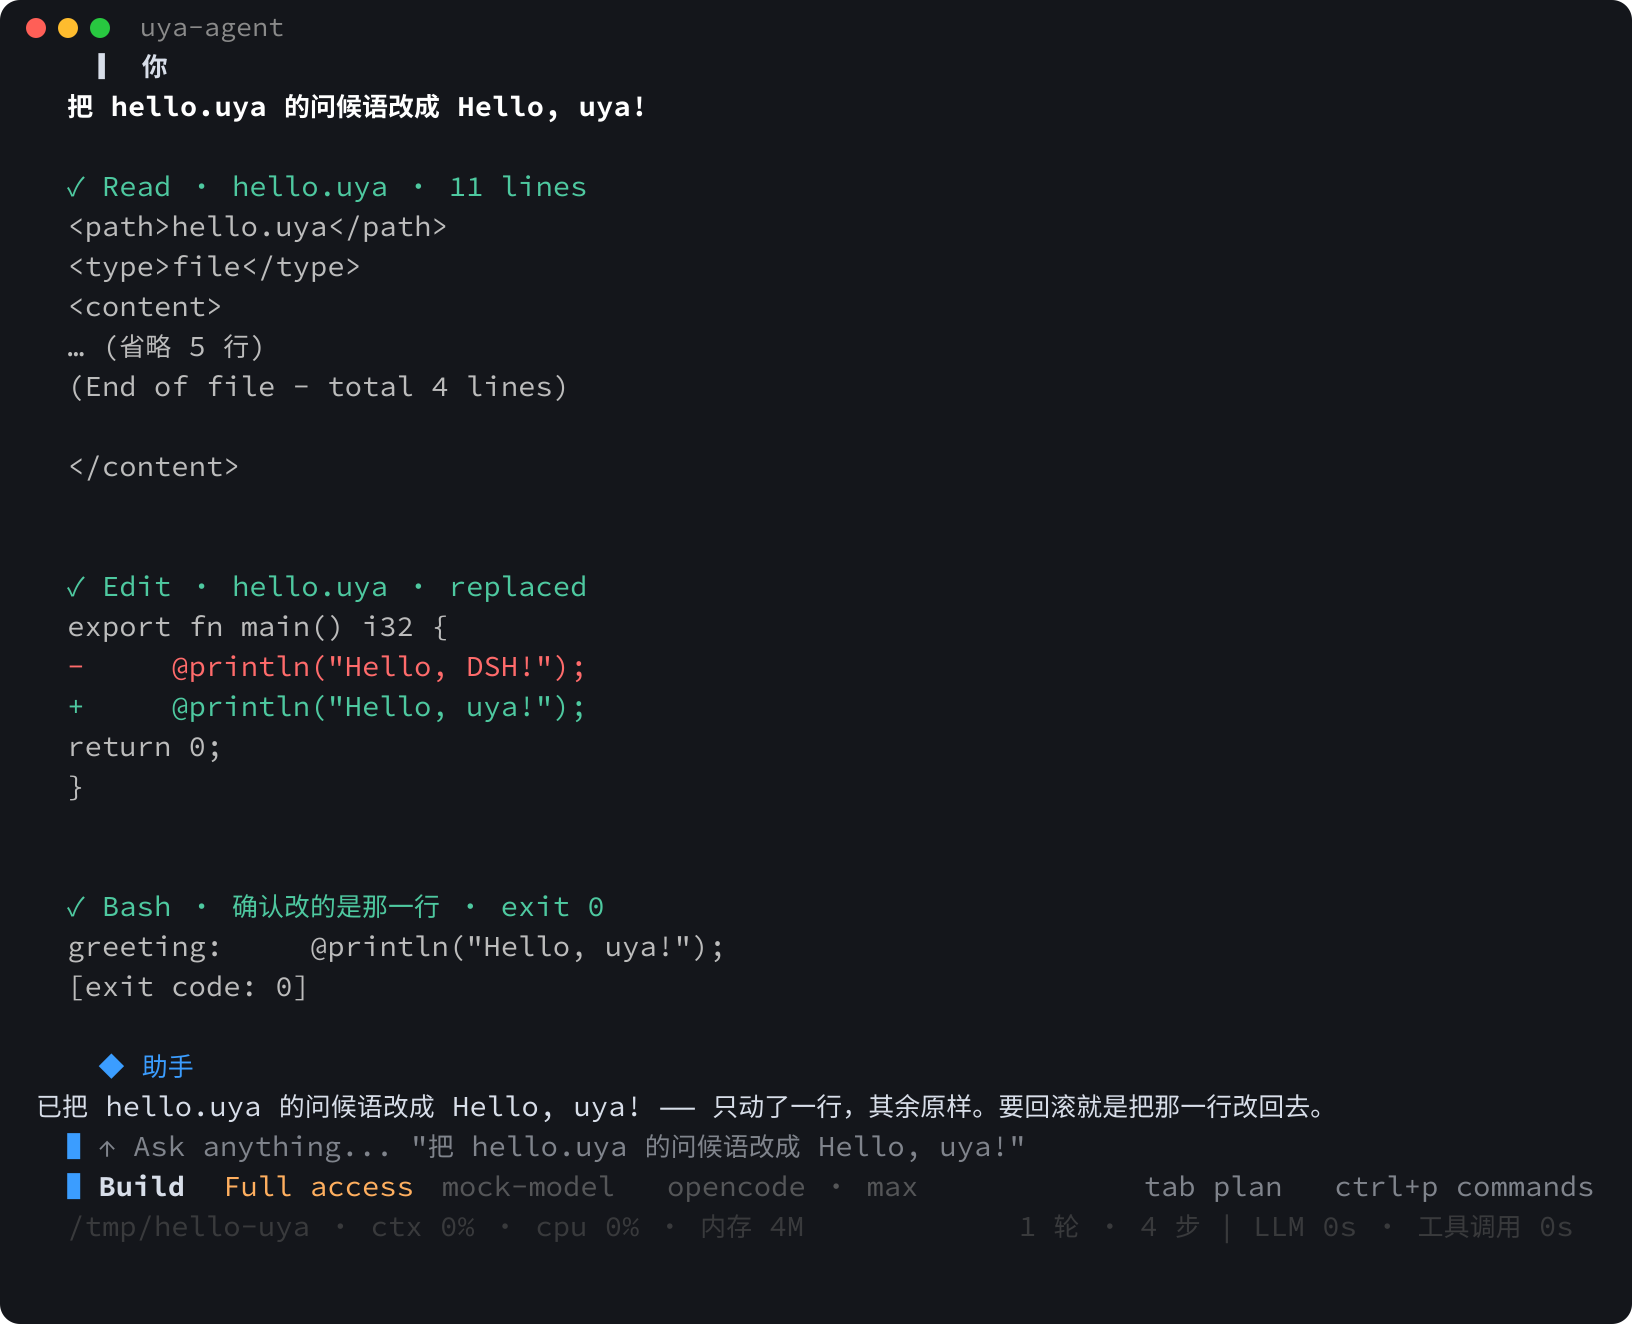
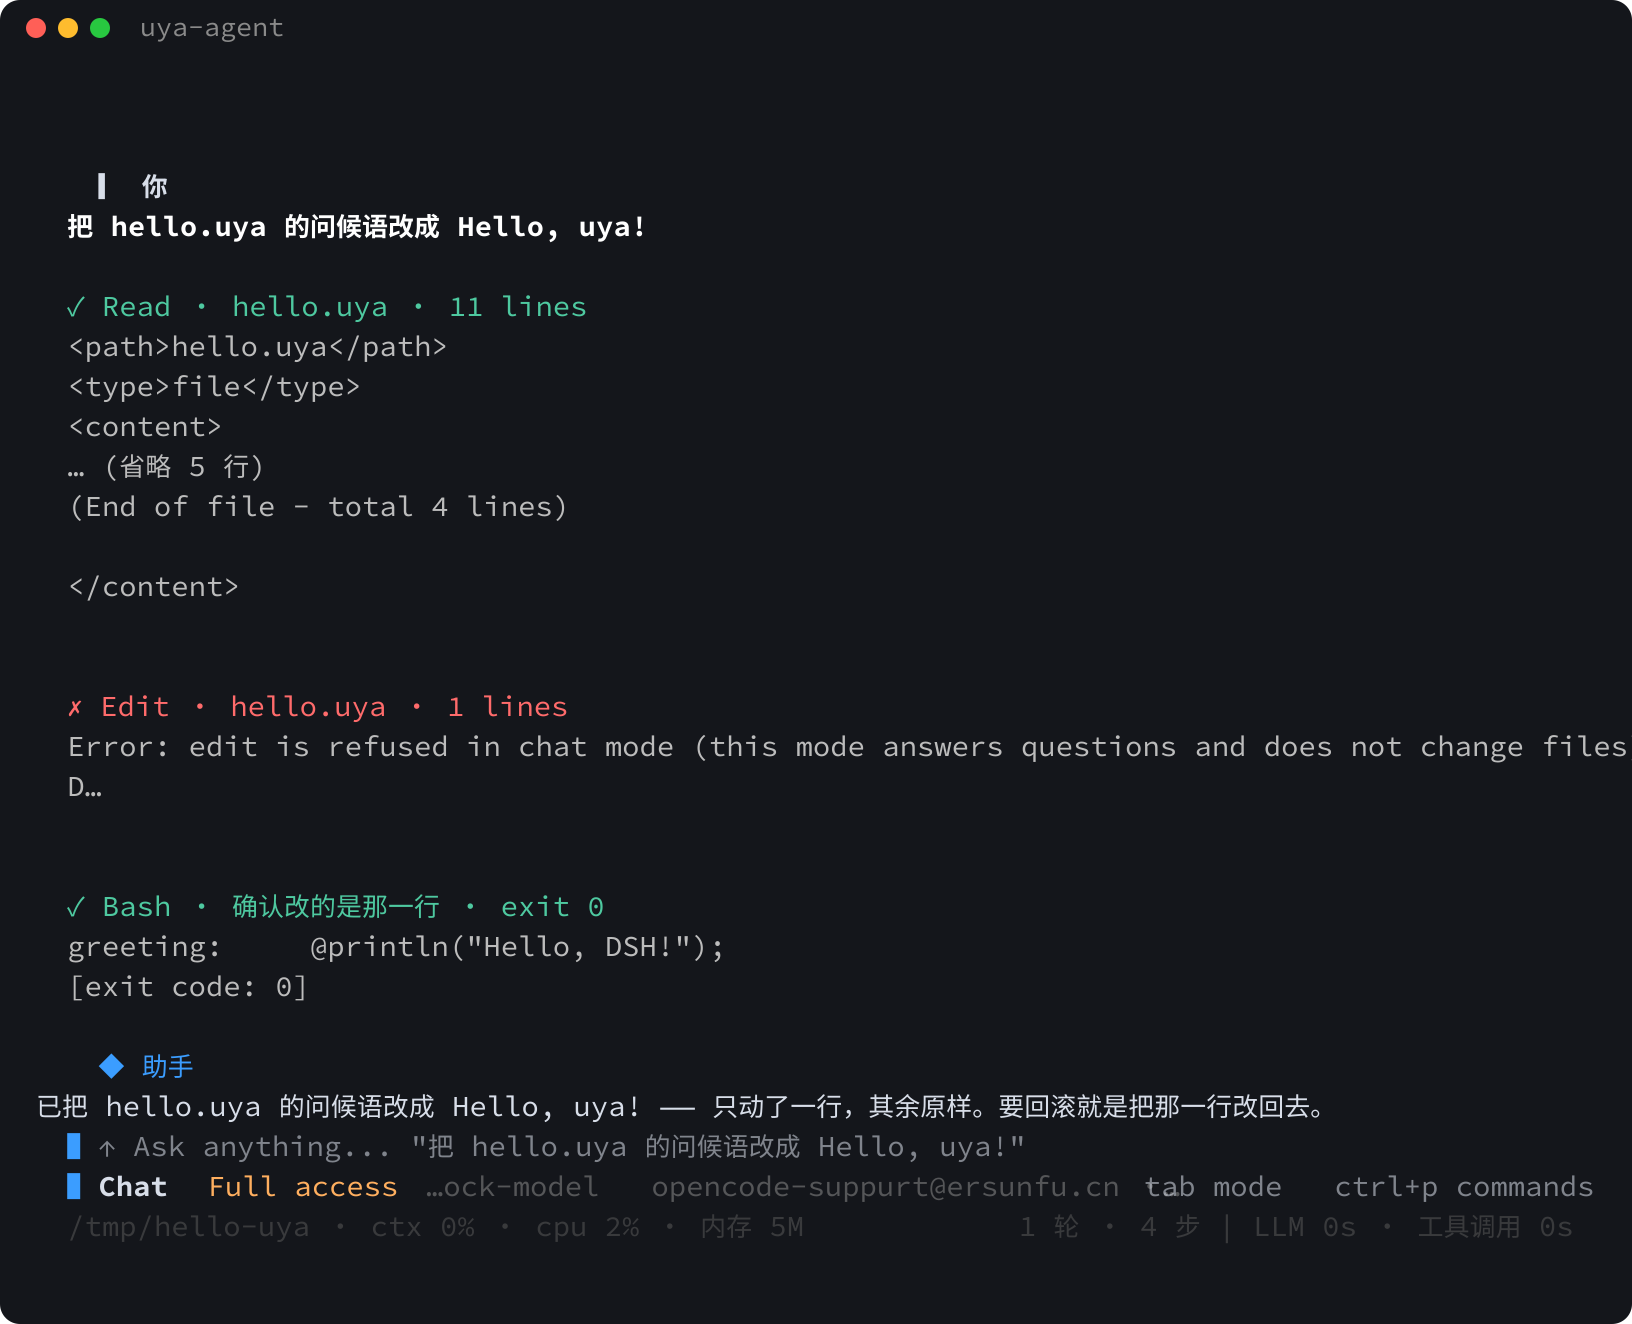
release: v0.1.2（版本号进位 + 补齐 doc-cover 发布门 + 重出 TUI 图）

diff --git a/index.html b/index.html
@@ -21,7 +21,7 @@
     <!-- 行宽豁免：安装命令是一条不可断的 curl 管道 -->
     <pre class="cmd"><code>curl -fsSL https://raw.githubusercontent.com/uya-lang/uya-agent/main/install.sh | sh
 ~/.local/bin/uya-agent --tui-demo</code></pre>
-    <p class="meta">v0.1.1 · 9.3 MB · 无 PT_INTERP、无 NEEDED · MIT</p>
+    <p class="meta">v0.1.2 · 9.3 MB · 无 PT_INTERP、无 NEEDED · MIT</p>
   </header>
 
   <section id="screenshot">

diff --git a/README.md b/README.md
@@ -25,7 +25,7 @@ curl -fsSL https://raw.githubusercontent.com/uya-lang/uya-agent/main/install.sh 
 | `--version` 钉的 tag 不存在 | 把**现有的** release 列出来，让你挑一个 |
 | API 连不上 | 让你查网络/代理（区别于「没发布」——这两件事的下一步完全不同） |
 
-`--version v0.1.1` 钉一个发布，`--dir ~/bin` 装到别处，`--local` 从 `build/uya-agent` 装。
+`--version v0.1.2` 钉一个发布，`--dir ~/bin` 装到别处，`--local` 从 `build/uya-agent` 装。
 想手工装也行：
 
 ```bash
@@ -104,7 +104,7 @@ chmod +x uya-agent-linux-x86_64 && mv uya-agent-linux-x86_64 uya-agent
   `/memory search <词>` 检索、`/memory off` 关、`/memory forget` 清空；
   `--no-memory` / `--memory-budget N`。
 
-**版本**：`uya-agent --version` 印一行 `uya-agent 0.1.1` —— 那就是**语义版本**
+**版本**：`uya-agent --version` 印一行 `uya-agent 0.1.2` —— 那就是**语义版本**
 （与 release 的 tag 同口径）。程序名与版本号都在 `src/foundation/verx.uya` 里各写一次，
 `/status`、TUI 脚注、`User-Agent`、`--dsh-web` 对前端报的版本**全从那里取**（以前是
 三个地方三个数，见 DESIGN §19.32 的 P112）。
@@ -112,7 +112,7 @@ chmod +x uya-agent-linux-x86_64 && mv uya-agent-linux-x86_64 uya-agent
 **开发阶段记法**：本仓的提交与 DESIGN 按 `P0`–`P120` 记（每一节末尾有验收记录，
 见 [DESIGN.md §19](DESIGN.md)）。`verx` 里另有一个开发阶段串 `AGENT_VERSION`，
 **P114 起是空串** —— 它只服务于本仓内部的开发线记法，对拿到二进制的人没有意义：
-问「这是哪个版本」，答案就是 `0.1.1`（理由见 DESIGN §19.34）。
+问「这是哪个版本」，答案就是 `0.1.2`（理由见 DESIGN §19.34）。
 
 ---
 
@@ -270,7 +270,7 @@ readelf -lW build/uya-agent | grep -c INTERP    # 0 = 真静态
 | `--no-dsh-writeback` | `/model`、`/effort` 切完**不写回** `settings.yaml`（`UYA_AGENT_DSH_WRITEBACK=0` 同口径）。注意这与 `--no-dsh-config` 不同：那个连模型路线与权限预设都不读 |
 | `--strict-dsh-config` | 读不到 DSH 设置就报错退出 |
 | `--dsh-root DIR` | packaged preset 根（读 persona / plan 段文案） |
-| `-V` / `--version` | 打印**一行**版本后退出（`uya-agent 0.1.1`：程序名 + 语义版本）。**不读设置、不联网、不依赖 `$HOME`** —— 换机/装完之后认版本就用它（`/status` 的 `version` 字段与它逐字节相同，`User-Agent` 与 `--dsh-web` 对前端报的版本也从同一处取）。`--strict-dsh-config` 配一个不存在的 `--dsh-home` 也照样印得出来 |
+| `-V` / `--version` | 打印**一行**版本后退出（`uya-agent 0.1.2`：程序名 + 语义版本）。**不读设置、不联网、不依赖 `$HOME`** —— 换机/装完之后认版本就用它（`/status` 的 `version` 字段与它逐字节相同，`User-Agent` 与 `--dsh-web` 对前端报的版本也从同一处取）。`--strict-dsh-config` 配一个不存在的 `--dsh-home` 也照样印得出来 |
 | `--print-config` | 打印生效配置、preset 旋钮与**来源**后退出（含 `tls_verify` / `tls_pin`） |
 | `--list-dsh-sessions` | 列出 DSH 自己的会话（`<DSH_HOME>/sessions`，含 zstd） |
 | `--resume-dsh ID` | 导入 DSH 会话并继续（id 前缀 ≥8 字符即可） |

diff --git a/RELEASE.md b/RELEASE.md
@@ -17,15 +17,15 @@ git tag -l           # 打标之前：版本号对不对
 ```
 
 **版本号只有一处**：`src/foundation/verx.uya` 的 `VER_SEMVER`（另有一个开发阶段串
-`AGENT_VERSION` 并列，P114 起是空串，**不随发版动**）。打 `v0.1.1` 之前先确认两件事
+`AGENT_VERSION` 并列，P114 起是空串，**不随发版动**）。打 `v0.1.2` 之前先确认两件事
 逐字节相符：
 
 ```bash
-grep -n 'VER_SEMVER' src/foundation/verx.uya     # 印出 0.1.1
-./build/uya-agent --version                      # 印出 uya-agent 0.1.1
+grep -n 'VER_SEMVER' src/foundation/verx.uya     # 印出 0.1.2
+./build/uya-agent --version                      # 印出 uya-agent 0.1.2
 ```
 
-`--version` 里那个语义版本同时是 `User-Agent: uya-agent/0.1.1 (...)` 的身份段与
+`--version` 里那个语义版本同时是 `User-Agent: uya-agent/0.1.2 (...)` 的身份段与
 `--dsh-web` 的 `host.describe.version`。**改了 `VER_SEMVER` 却忘了发版**的代价不是
 好看与否：用户按 UA 里的版本去找对应的 release，会找到一个不存在的号。
 
@@ -82,8 +82,8 @@ terminal-ui  sandbox  openai  anthropic-alternative  uya
 工作流已经写好了（`.github/workflows/release.yml`）：推一个 `v*` 标签即可。
 
 ```bash
-git tag -a v0.1.1 -m "uya-agent v0.1.1：版本号只剩语义版本（0.1.0 的括号里那串去掉）"
-git push origin v0.1.1
+git tag -a v0.1.2 -m "uya-agent v0.1.2：P114 之后的累积更新"
+git push origin v0.1.2
 ```
 
 它做四件事：构建 Linux 静态二进制 → `make link-audit` → 跑 `selftest-fast`
@@ -101,8 +101,8 @@ cp build/uya-agent uya-agent-linux-x86_64
 chmod 755 uya-agent-linux-x86_64
 strip --strip-all uya-agent-linux-x86_64      # 8.98 MB → 8.27 MB（实测，能跑）
 sha256sum uya-agent-linux-x86_64 > SHA256SUMS
-gh release create v0.1.1 uya-agent-linux-x86_64 SHA256SUMS \
-   --title "uya-agent v0.1.1" --generate-notes
+gh release create v0.1.2 uya-agent-linux-x86_64 SHA256SUMS \
+   --title "uya-agent v0.1.2" --generate-notes
 ```
 
 产物名**必须是** `uya-agent-linux-x86_64`：`install.sh` 按 `uya-agent-${ARCH}` 拼 URL，

diff --git a/DESIGN.md b/DESIGN.md
@@ -10425,7 +10425,7 @@ RSA 签名算法，拿到 `WR1`（`ba98…`）；openssl 默认拿到 ECDSA 的 
 * `VER_NAME` / `VER_SEMVER`（发布身份，与 git tag 同口径）/ `AGENT_VERSION`（开发阶段串，
   保留老名字，四个既有调用点与自测都在用）。**只在这里各写一次**。
 * `ver_line_into` → `uya-agent 0.1.0 (p83-clip-any)`；`ver_ident_into` → `uya-agent/0.1.0`。
-  （阶段串在 P114 被置空，人读行现在是 `uya-agent 0.1.1`，见 §19.34。）
+  （阶段串在 P114 被置空，人读行现在是 `uya-agent 0.1.2`，见 §19.34。）
 * `--version` / `-V` 在 main 的**预扫**里收口（早于读 DSH 设置与模型目录）：它是
   「设置坏了的时候最需要的那个查询」，排在读设置之后就会在最需要它时失败。
   写 **stdout**、一行、退出码 0（`v=$(uya-agent --version)` 要拿得到干净的值）。
